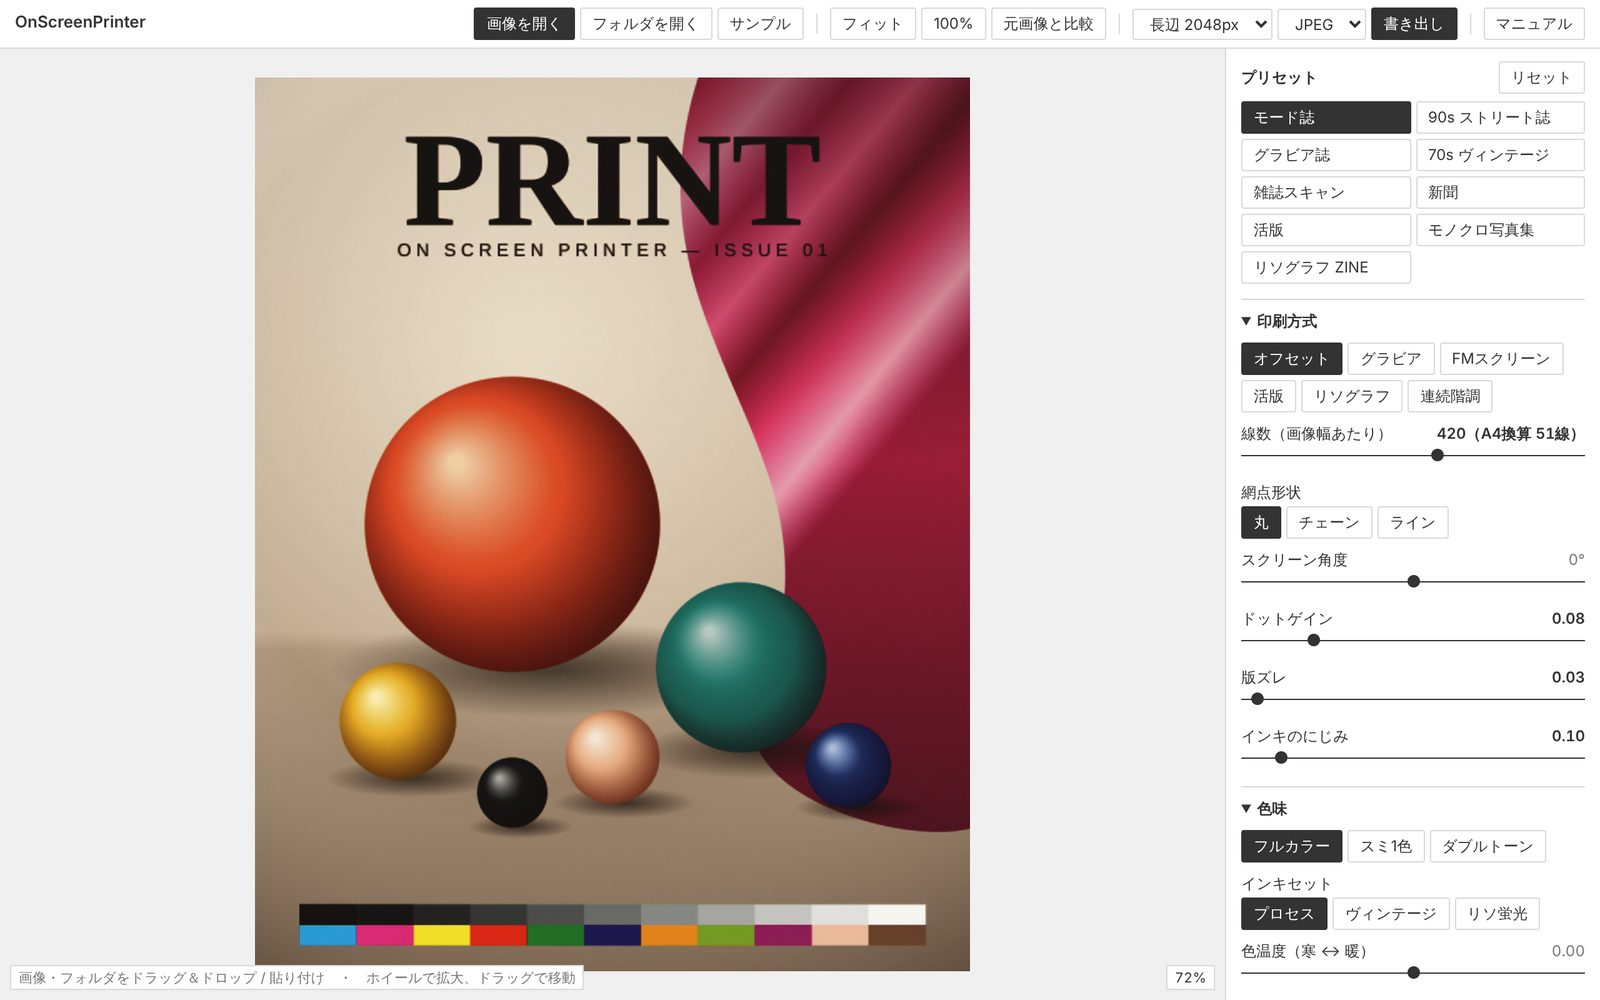
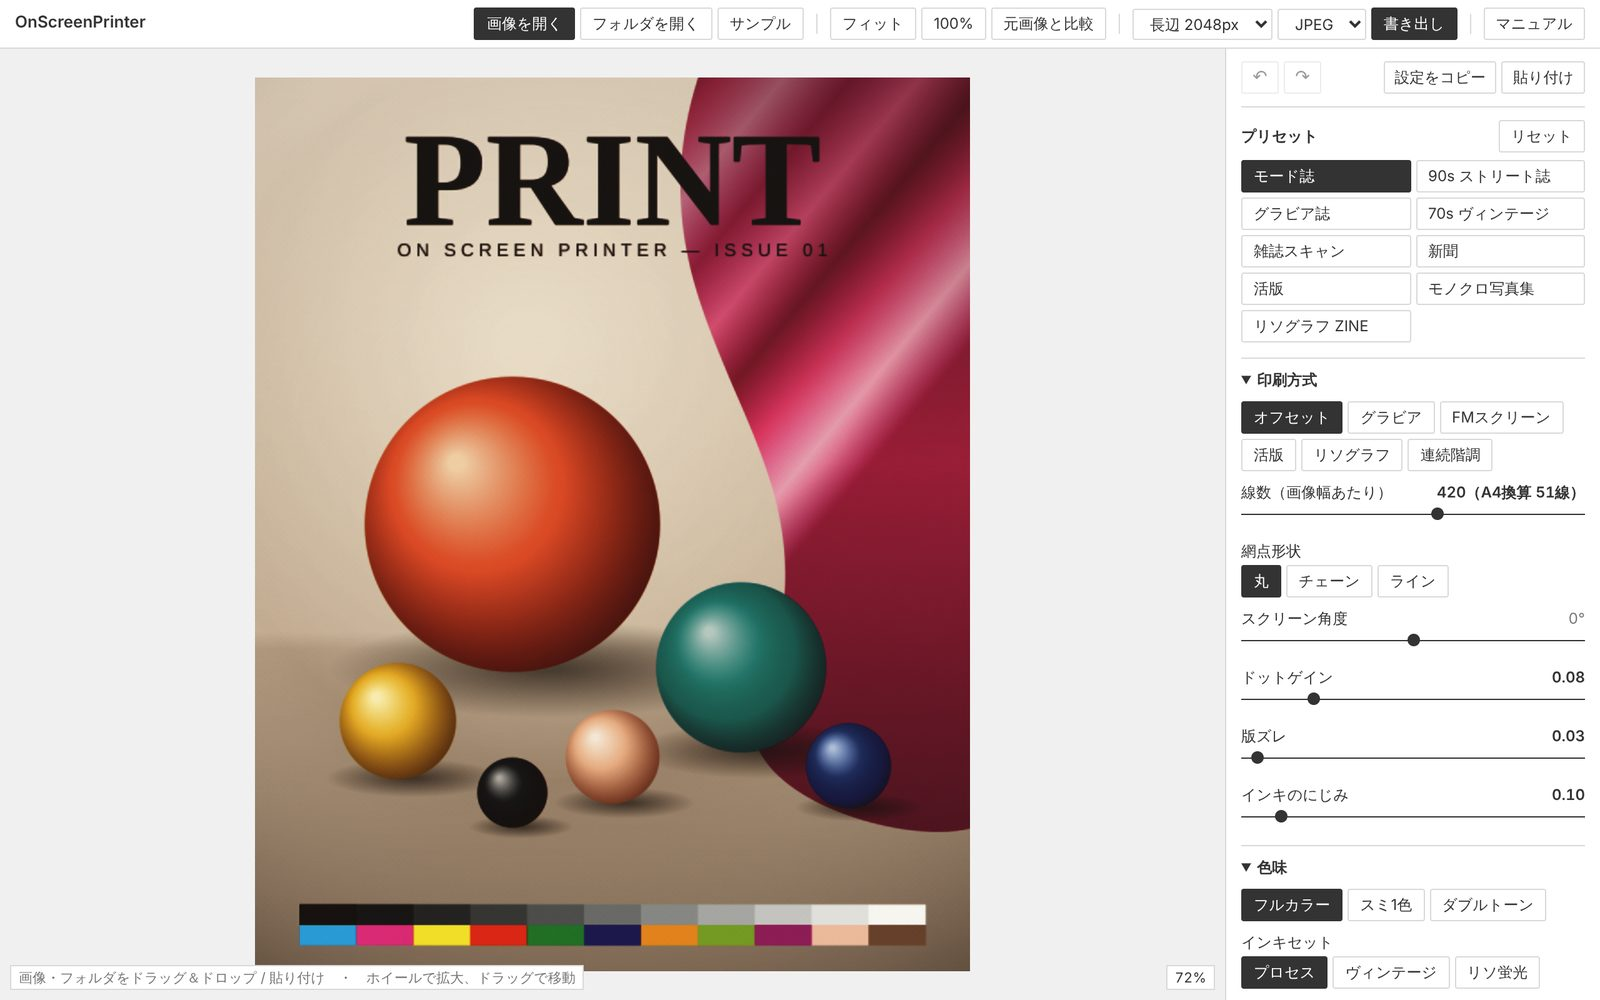
Add undo/redo for settings and settings copy/paste
Settings changes are recorded per operation (a slider drag counts as one)
and can be undone/redone with the panel buttons or Ctrl/Cmd+Z and
Ctrl+Y / Cmd+Shift+Z. Settings can be copied as JSON text and pasted back
via buttons, Ctrl/Cmd+C with no selection, or Ctrl/Cmd+V; pasted values
are validated and clamped. Re-randomising mottle now also updates the
current image's seed used by batch export.

Claude-Session: https://claude.ai/code/session_011mGrBNw3HkwTXjWBetPL4C

diff --git a/js/app.js b/js/app.js
@@ -481,6 +481,11 @@
     if (busy) return;
     const files = [...(e.clipboardData ? e.clipboardData.items : [])]
       .filter((i) => i.type.startsWith('image/')).map((i) => i.getAsFile()).filter(Boolean);
+    if (!files.length) {
+      const st = parseSettings(e.clipboardData && e.clipboardData.getData('text/plain'));
+      if (st) { e.preventDefault(); applySettings(st); }
+      return;
+    }
     addFiles(files.map((file, n) => ({ file, path: files.length > 1 ? `pasted_${n + 1}.png` : 'pasted.png' })));
   });
 
@@ -589,25 +594,189 @@
     sc.disabled = params.scan === 'on';
     sc.title = sc.disabled ? 'スキャン時はスキャン解像度のまま書き出します' : '';
   }
-  function setParam(key, value) {
-    params[key] = value;
-    presetId = 'custom';
+  // ---------- 履歴 (元に戻す / やり直す)
+  // 設定の変更を1操作ずつ記録する。むらの出方 (seed) は画像ごとのものなので対象外。
+  // スライダーは、押してから離すまで (または手を止めて 0.8 秒たつまで) を1操作にまとめる
+  const HISTORY_MAX = 100;
+  const undoStack = [];
+  const redoStack = [];
+  let openGroup = null;
+  let groupTimer = null;
+  const snapshot = () => ({ params: { ...params }, presetId });
+  const stateKey = (st) => JSON.stringify({ ...st.params, seed: 0 }) + st.presetId;
+
+  function closeGroup() {
+    openGroup = null;
+    clearTimeout(groupTimer);
+    groupTimer = null;
+  }
+  /** mutate() で設定を変える。group を渡すと、同じ group の連続した変更を1操作にまとめる */
+  function change(mutate, group) {
+    const before = snapshot();
+    mutate();
+    if (stateKey(before) === stateKey(snapshot())) return;
+    if (!group || group !== openGroup) {
+      undoStack.push(before);
+      if (undoStack.length > HISTORY_MAX) undoStack.shift();
+      openGroup = group || null;
+    }
+    redoStack.length = 0;
+    clearTimeout(groupTimer);
+    groupTimer = group ? setTimeout(closeGroup, 800) : null;
+    if (!group) openGroup = null;
+    applied();
+  }
+  function restore(st) {
+    params = { ...st.params, seed: params.seed };
+    presetId = st.presetId;
+    applied();
+  }
+  function undo() {
+    closeGroup();
+    if (!undoStack.length) return;
+    redoStack.push(snapshot());
+    restore(undoStack.pop());
+    toast('元に戻しました');
+  }
+  function redo() {
+    closeGroup();
+    if (!redoStack.length) return;
+    undoStack.push(snapshot());
+    restore(redoStack.pop());
+    toast('やり直しました');
+  }
+  function applied() {
     refreshUI();
     save();
     requestRender();
+    $('#btn-undo').disabled = !undoStack.length;
+    $('#btn-redo').disabled = !redoStack.length;
+  }
+
+  function setParam(key, value, group) {
+    change(() => {
+      params[key] = value;
+      presetId = 'custom';
+    }, group);
   }
   function reseed() {
     params.seed = Math.floor(Math.random() * 1e6);
+    if (current >= 0 && items[current]) items[current].seed = params.seed;   // 一括書き出しにも反映する
     save();
     requestRender();
   }
   function applyPreset(p) {
-    params = { ...DEFAULTS, ...p.p, seed: params.seed };
-    presetId = p.id;
-    refreshUI();
-    save();
-    requestRender();
+    change(() => {
+      params = { ...DEFAULTS, ...p.p, seed: params.seed };
+      presetId = p.id;
+    });
   }
+
+  // ---------- 設定のコピー / 貼り付け
+  const SETTINGS_APP = 'OnScreenPrinter';
+  function settingsText() {
+    const { seed, ...rest } = params;
+    return JSON.stringify({ app: SETTINGS_APP, v: 1, preset: presetId, params: rest });
+  }
+  /** 貼り付けられた文字から設定を取り出す。設定でなければ null */
+  function parseSettings(text) {
+    if (!text) return null;
+    const i = text.indexOf('{'), j = text.lastIndexOf('}');
+    if (i < 0 || j <= i) return null;
+    let obj;
+    try { obj = JSON.parse(text.slice(i, j + 1)); } catch (e) { return null; }
+    if (!obj || obj.app !== SETTINGS_APP || typeof obj.params !== 'object') return null;
+    const schemaItems = {};
+    for (const sec of SCHEMA) for (const it of sec.items) if (it.key) schemaItems[it.key] = it;
+    const out = { ...DEFAULTS };
+    let n = 0;
+    for (const [k, v] of Object.entries(obj.params)) {
+      const it = schemaItems[k];
+      if (!it || typeof v !== typeof DEFAULTS[k]) continue;
+      if (typeof v === 'number') {
+        if (!isFinite(v)) continue;
+        out[k] = Math.min(it.max, Math.max(it.min, v));
+      } else if (it.type === 'choice') {
+        if (!it.options.some(([val]) => val === v)) continue;
+        out[k] = v;
+      } else if (it.type === 'color' || it.type === 'paper') {
+        if (!/^#[0-9a-f]{6}$/i.test(v)) continue;
+        out[k] = v.toLowerCase();
+      } else continue;
+      n++;
+    }
+    if (!n) return null;
+    const known = PRESETS.some((p) => p.id === obj.preset);
+    return { params: out, presetId: known ? obj.preset : 'custom' };
+  }
+  function applySettings(st) {
+    change(() => {
+      params = { ...st.params, seed: params.seed };
+      presetId = st.presetId;
+    });
+    toast('設定を貼り付けました');
+  }
+
+  let toastTimer = null;
+  function toast(text) {
+    const t = $('#toast');
+    t.textContent = text;
+    t.classList.add('show');
+    clearTimeout(toastTimer);
+    toastTimer = setTimeout(() => t.classList.remove('show'), 1800);
+  }
+
+  async function copySettings() {
+    const text = settingsText();
+    try {
+      await navigator.clipboard.writeText(text);
+    } catch (e) {
+      // クリップボード API が使えないときの代替
+      const ta = el('textarea');
+      ta.value = text;
+      ta.style.position = 'fixed';
+      ta.style.opacity = '0';
+      document.body.append(ta);
+      ta.select();
+      const ok = document.execCommand('copy');
+      ta.remove();
+      if (!ok) { window.prompt('この文字をコピーしてください', text); return; }
+    }
+    toast('設定をコピーしました');
+  }
+  async function pasteSettings() {
+    let text = null;
+    try { text = await navigator.clipboard.readText(); } catch (e) { /* 読み取りが許可されないブラウザ */ }
+    if (text == null) {
+      toast(`${MOD}+V で貼り付けてください`);
+      return;
+    }
+    const st = parseSettings(text);
+    if (st) applySettings(st);
+    else toast('クリップボードに設定が入っていません');
+  }
+
+  const MAC = /Mac|iPhone|iPad/.test(navigator.platform || navigator.userAgent);
+  const MOD = MAC ? '⌘' : 'Ctrl';
+  $('#btn-undo').title = `元に戻す（${MOD}+Z）`;
+  $('#btn-redo').title = `やり直す（${MAC ? '⌘+Shift+Z' : 'Ctrl+Y'}）`;
+  $('#btn-undo').addEventListener('click', undo);
+  $('#btn-redo').addEventListener('click', redo);
+  $('#btn-copy').addEventListener('click', copySettings);
+  $('#btn-paste').addEventListener('click', pasteSettings);
+  window.addEventListener('keydown', (e) => {
+    if (!(e.ctrlKey || e.metaKey) || e.altKey) return;
+    const k = e.key.toLowerCase();
+    if (k === 'z' && !e.shiftKey) { e.preventDefault(); undo(); }
+    else if ((k === 'z' && e.shiftKey) || k === 'y') { e.preventDefault(); redo(); }
+  });
+  // 何も選択していないときの Ctrl+C / ⌘+C は設定のコピー
+  document.addEventListener('copy', (e) => {
+    if (String(window.getSelection())) return;
+    e.clipboardData.setData('text/plain', settingsText());
+    e.preventDefault();
+    toast('設定をコピーしました');
+  });
 
   function buildSlider(item) {
     const row = el('div', 'row slider ' + (item.cls || ''));
@@ -625,8 +794,9 @@
     label.htmlFor = input.id;
     input.addEventListener('input', () => {
       const v = parseFloat(input.value);
-      setParam(item.key, log ? Math.round(Math.pow(2, v)) : v);
+      setParam(item.key, log ? Math.round(Math.pow(2, v)) : v, 'slider:' + item.key);
     });
+    input.addEventListener('change', closeGroup);   // スライダーを離したら1操作の区切り
     const reset = () => setParam(item.key, DEFAULTS[item.key]);
     input.addEventListener('dblclick', reset);
     val.title = 'クリックで初期値に戻す';
@@ -668,7 +838,8 @@
     input.type = 'color';
     input.id = 'p-' + item.key;
     label.htmlFor = input.id;
-    input.addEventListener('input', () => setParam(item.key, input.value));
+    input.addEventListener('input', () => setParam(item.key, input.value, 'color:' + item.key));
+    input.addEventListener('change', closeGroup);
     row.append(label);
     if (item.type === 'paper') {
       const sel = el('select');
@@ -717,7 +888,7 @@
     }
     controls.append(d);
   }
-  $('#btn-reset').addEventListener('click', () => applyPreset({ id: 'custom', p: {} }));
+  $('#btn-reset').addEventListener('click', () => { applyPreset({ id: 'custom', p: {} }); toast('初期設定に戻しました（元に戻すで取り消せます）'); });
 
   refreshUI();
   loadSample();

diff --git a/manual.html b/manual.html
@@ -143,7 +143,7 @@ footer { margin-top: 64px; padding-top: 12px; border-top: 1px solid var(--line);
   <tr><td>左のプレビュー</td><td>仕上がりを表示します。拡大・移動ができます（<a href="#view">6. 表示の操作</a>）</td></tr>
   <tr><td>プレビュー下の一覧</td><td>読み込んだ画像のサムネイル。画像を開くと表示されます（<a href="#batch">5. 複数の画像をまとめて処理する</a>）</td></tr>
   <tr><td>右下の倍率</td><td>現在の表示倍率です。100% のとき、画像の1画素が画面の1画素になります</td></tr>
-  <tr><td>右の調整パネル</td><td>上から順に、プリセット・印刷方式・色味・トーン・紙と質感・スキャン</td></tr>
+  <tr><td>右の調整パネル</td><td>一番上に元に戻す・やり直す・設定のコピー・貼り付け。その下に、プリセット・印刷方式・色味・トーン・紙と質感・スキャン</td></tr>
 </table>
 
 <h2 id="flow">4. 基本の使い方</h2>
@@ -154,6 +154,31 @@ footer { margin-top: 64px; padding-top: 12px; border-top: 1px solid var(--line);
   <li><b>書き出す</b><br>書き出しサイズと形式を選んで「書き出し」を押すと、画像が保存されます。</li>
 </ol>
 <p>調整した内容はブラウザに自動で保存され、次に開いたときも引き継がれます。最初の状態に戻すには、パネル上部の「リセット」を押します。</p>
+
+<h3>設定を元に戻す・やり直す</h3>
+<p>調整パネルの左上にある <b>↶</b>（元に戻す）・<b>↷</b>（やり直す）で、設定の変更を1つずつ取り消したり、やり直したりできます。最大 100 回分さかのぼれます。</p>
+<table>
+  <tr><th>操作</th><th>Windows</th><th>Mac</th></tr>
+  <tr><td>元に戻す</td><td><kbd>Ctrl</kbd>+<kbd>Z</kbd></td><td><kbd>⌘</kbd>+<kbd>Z</kbd></td></tr>
+  <tr><td>やり直す</td><td><kbd>Ctrl</kbd>+<kbd>Y</kbd> または <kbd>Ctrl</kbd>+<kbd>Shift</kbd>+<kbd>Z</kbd></td><td><kbd>⌘</kbd>+<kbd>Shift</kbd>+<kbd>Z</kbd></td></tr>
+</table>
+<ul>
+  <li>スライダーは、つまんで動かしてから離すまでを 1 回の変更として扱います。</li>
+  <li>プリセットの切り替え・「リセット」・設定の貼り付けも取り消せます。</li>
+  <li>「むら・紙目を乱数で作り直す」は、画像ごとの模様の配置なので、取り消しの対象にはなりません。</li>
+  <li>履歴はページを閉じると消えます（設定そのものは保存されています）。</li>
+</ul>
+
+<h3>設定をコピーする・貼り付ける</h3>
+<p>調整パネル右上の「設定をコピー」を押すと、現在の設定がすべて文字としてクリップボードに入ります。
+メモやチャットに貼っておけば、あとで同じ仕上がりを再現したり、ほかの人と設定を共有したりできます。</p>
+<ul>
+  <li><b>コピー</b>：「設定をコピー」を押すか、何も選択していない状態で <kbd>Ctrl</kbd>+<kbd>C</kbd>（Mac は <kbd>⌘</kbd>+<kbd>C</kbd>）</li>
+  <li><b>貼り付け</b>：「貼り付け」を押すか、<kbd>Ctrl</kbd>+<kbd>V</kbd>（Mac は <kbd>⌘</kbd>+<kbd>V</kbd>）</li>
+</ul>
+<p>コピーした文字は <code>{"app":"OnScreenPrinter", …}</code> のような形です。前後に説明の文章が付いていても、設定の部分だけを読み取ります。
+範囲外の値は範囲内に収め、読み取れない項目は初期値になります。貼り付けた設定も「元に戻す」で取り消せます。</p>
+<div class="note">ブラウザによっては、「貼り付け」ボタンでクリップボードを読み取れないことがあります。その場合は <kbd>Ctrl</kbd>+<kbd>V</kbd>（Mac は <kbd>⌘</kbd>+<kbd>V</kbd>）で貼り付けてください。</div>
 
 <h2 id="batch">5. 複数の画像をまとめて処理する</h2>
 <p>撮影したカットをまとめて同じ質感に仕上げられます。設定はすべての画像に共通で、インキむら・紙目の出方だけは画像ごとに変わります。</p>
@@ -325,6 +350,8 @@ footer { margin-top: 64px; padding-top: 12px; border-top: 1px solid var(--line);
 <p>ブラウザが WebGL2 に対応していないか、無効になっています。Chrome・Edge・Safari・Firefox の最新版でお試しください。Chrome の場合は、設定の「システム」で「グラフィック アクセラレーションが使用可能な場合は使用する」をオンにしてください。</p>
 <h3>フォルダを選んでも画像が取り込まれない</h3>
 <p>フォルダの中に、このブラウザが読み込める画像（JPEG・PNG・WebP など）が入っているか確かめてください。HEIC 形式は Safari 以外では読み込めないことがあります。</p>
+<h3>設定を動かしすぎて、元の状態がわからなくなった</h3>
+<p>↶（元に戻す）か <kbd>Ctrl</kbd>+<kbd>Z</kbd>（Mac は <kbd>⌘</kbd>+<kbd>Z</kbd>）で、1つずつさかのぼれます。気に入った設定は「設定をコピー」でメモに残しておくと安心です。</p>
 <h3>動作が重い</h3>
 <ul>
   <li>表示を「フィット」にすると、拡大表示より軽くなります。</li>

diff --git a/index.html b/index.html
@@ -40,6 +40,7 @@
       <canvas id="view"></canvas>
       <div id="hint">画像・フォルダをドラッグ＆ドロップ / 貼り付け　・　ホイールで拡大、ドラッグで移動</div>
       <div id="zoom">100%</div>
+      <div id="toast" role="status" aria-live="polite"></div>
       <div id="fatal" hidden></div>
     </section>
     <section id="strip" hidden aria-label="読み込んだ画像">
@@ -54,6 +55,13 @@
     </section>
   </div>
   <aside id="panel">
+    <div class="panel-tools">
+      <button id="btn-undo" type="button" class="icon" aria-label="元に戻す" disabled>↶</button>
+      <button id="btn-redo" type="button" class="icon" aria-label="やり直す" disabled>↷</button>
+      <span class="grow"></span>
+      <button id="btn-copy" type="button" title="設定を文字としてコピーします。メモやチャットに貼って共有できます">設定をコピー</button>
+      <button id="btn-paste" type="button" title="コピーした設定を読み込みます">貼り付け</button>
+    </div>
     <div class="panel-head">
       <h2>プリセット</h2>
       <button id="btn-reset" type="button">リセット</button>

diff --git a/css/style.css b/css/style.css
@@ -97,6 +97,17 @@ main { flex: 1; display: flex; min-height: 0; }
   overflow-y: auto;
   padding: 10px 12px 24px;
 }
+.panel-tools { display: flex; gap: 4px; padding-bottom: 10px; margin-bottom: 10px; border-bottom: 1px solid var(--line); }
+.panel-tools .grow { flex: 1; }
+.panel-tools button { padding: 3px 8px; white-space: nowrap; }
+.panel-tools button.icon { width: 30px; padding: 3px 0; font-size: 14px; line-height: 1.2; }
+#toast {
+  position: absolute; top: 10px; left: 50%; transform: translateX(-50%);
+  max-width: calc(100% - 32px); padding: 5px 12px;
+  background: var(--ink); color: var(--paper); border-radius: 2px;
+  opacity: 0; transition: opacity 0.2s; pointer-events: none;
+}
+#toast.show { opacity: 1; }
 .panel-head { display: flex; align-items: center; justify-content: space-between; margin-bottom: 6px; }
 h2, summary { margin: 0; font-size: 12px; font-weight: 600; }
 #presets { display: grid; grid-template-columns: 1fr 1fr; gap: 4px; margin-bottom: 12px; }

diff --git a/README.md b/README.md
@@ -16,6 +16,7 @@
 ホイール / ピンチで拡大、ドラッグで移動、ダブルクリックでフィット⇔等倍。
 「元画像と比較」ボタン（またはスペースキー）を押している間は元画像を表示します。
 スライダーの数値をクリックすると初期値に戻ります。
+設定の変更は ↶ / ↷（Ctrl/⌘+Z、Ctrl+Y / ⌘+Shift+Z）で取り消し・やり直しでき、「設定をコピー」「貼り付け」で設定を文字として共有できます。
 
 詳しい使い方は [manual.html](manual.html)（アプリ右上の「マニュアル」からも開けます）を参照してください。
 
